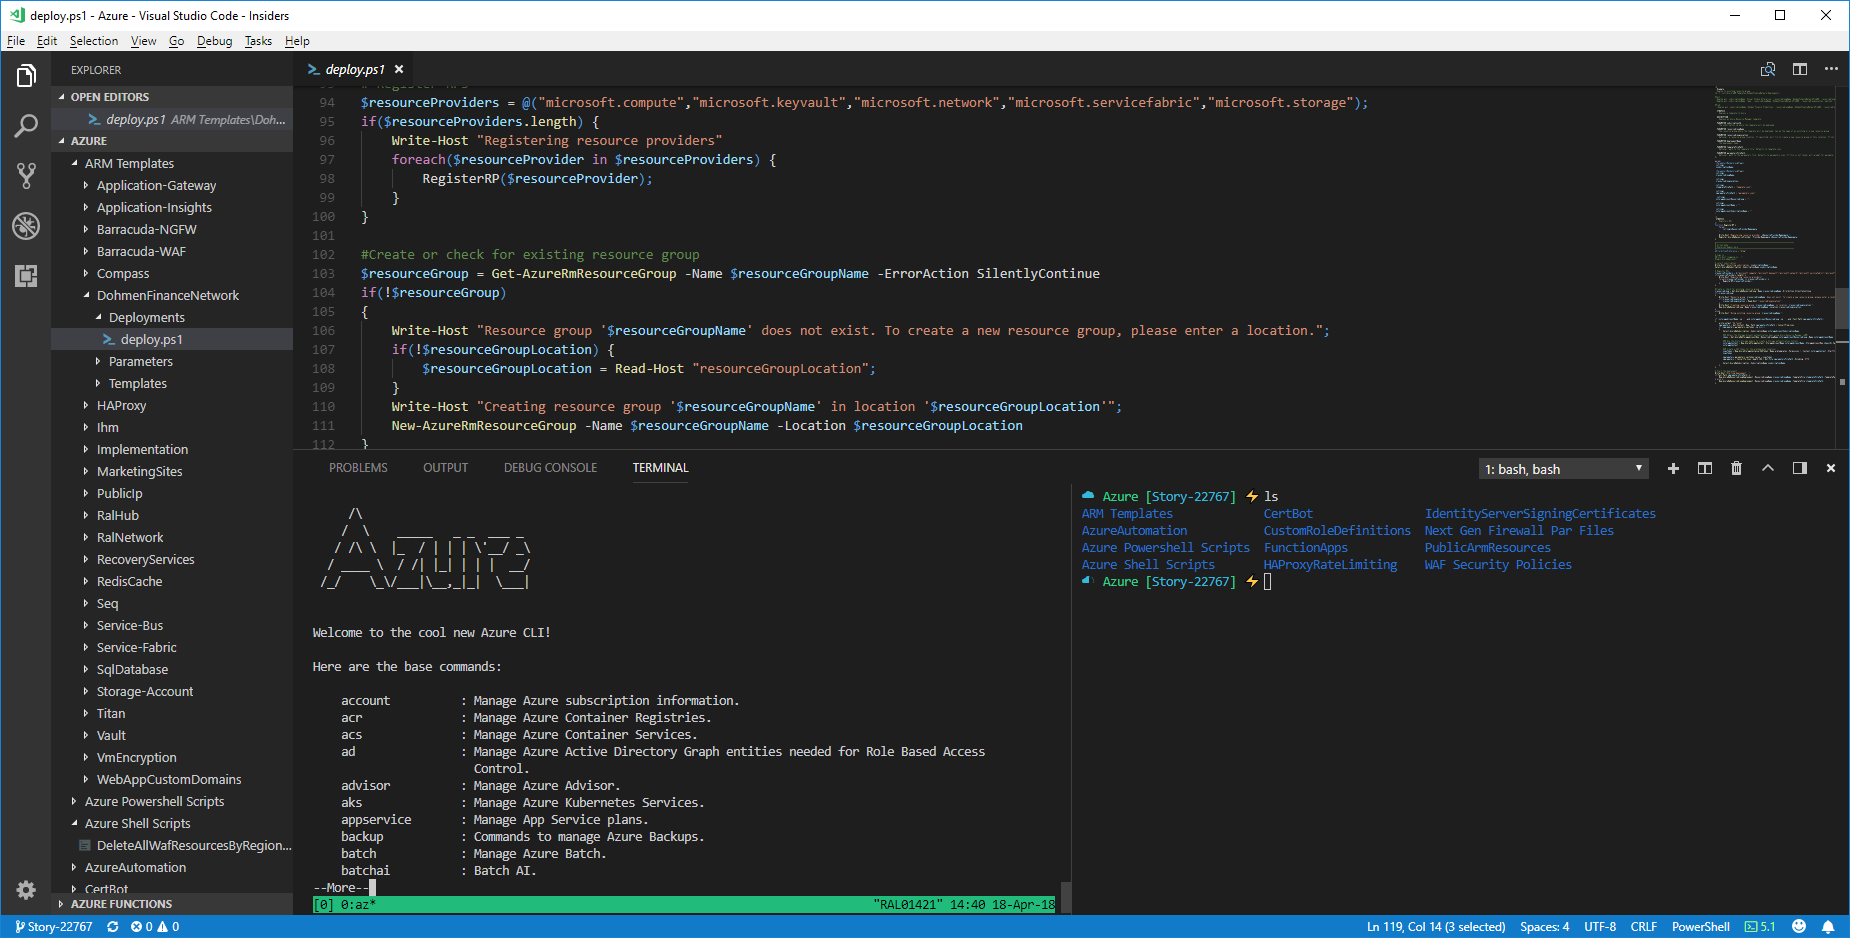
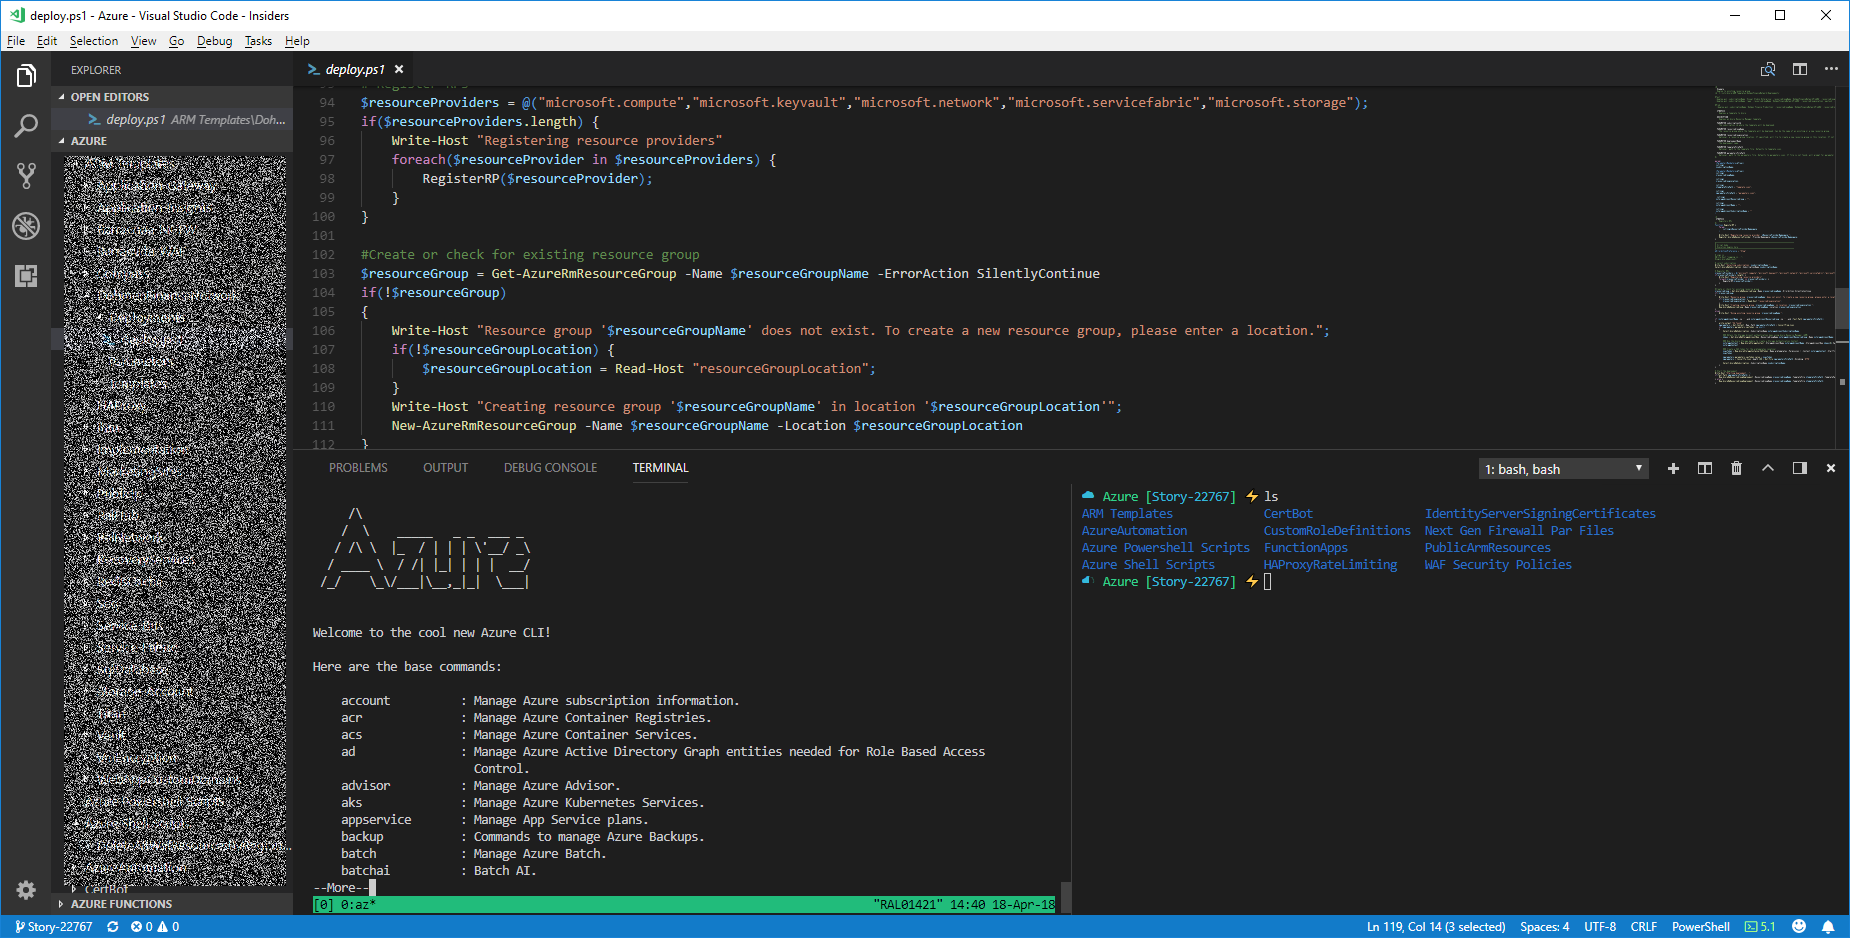
update image and readme

Changed region(s): [[0.0308, 0.1546, 0.1541, 0.9584]]

diff --git a/README.md b/README.md
@@ -1,6 +1,9 @@
 # wsl-azure-bash-terminal
 Inspired by the terminal that Jessical Dean configured, I put my own spin on it. Similar to hers but more geared towards the things that I'm currently using.
 
+
+# My Environment
+![Screenshot](images/myEnvironment.png)
 ## Applications Installed
 - zsh
   - zshell
